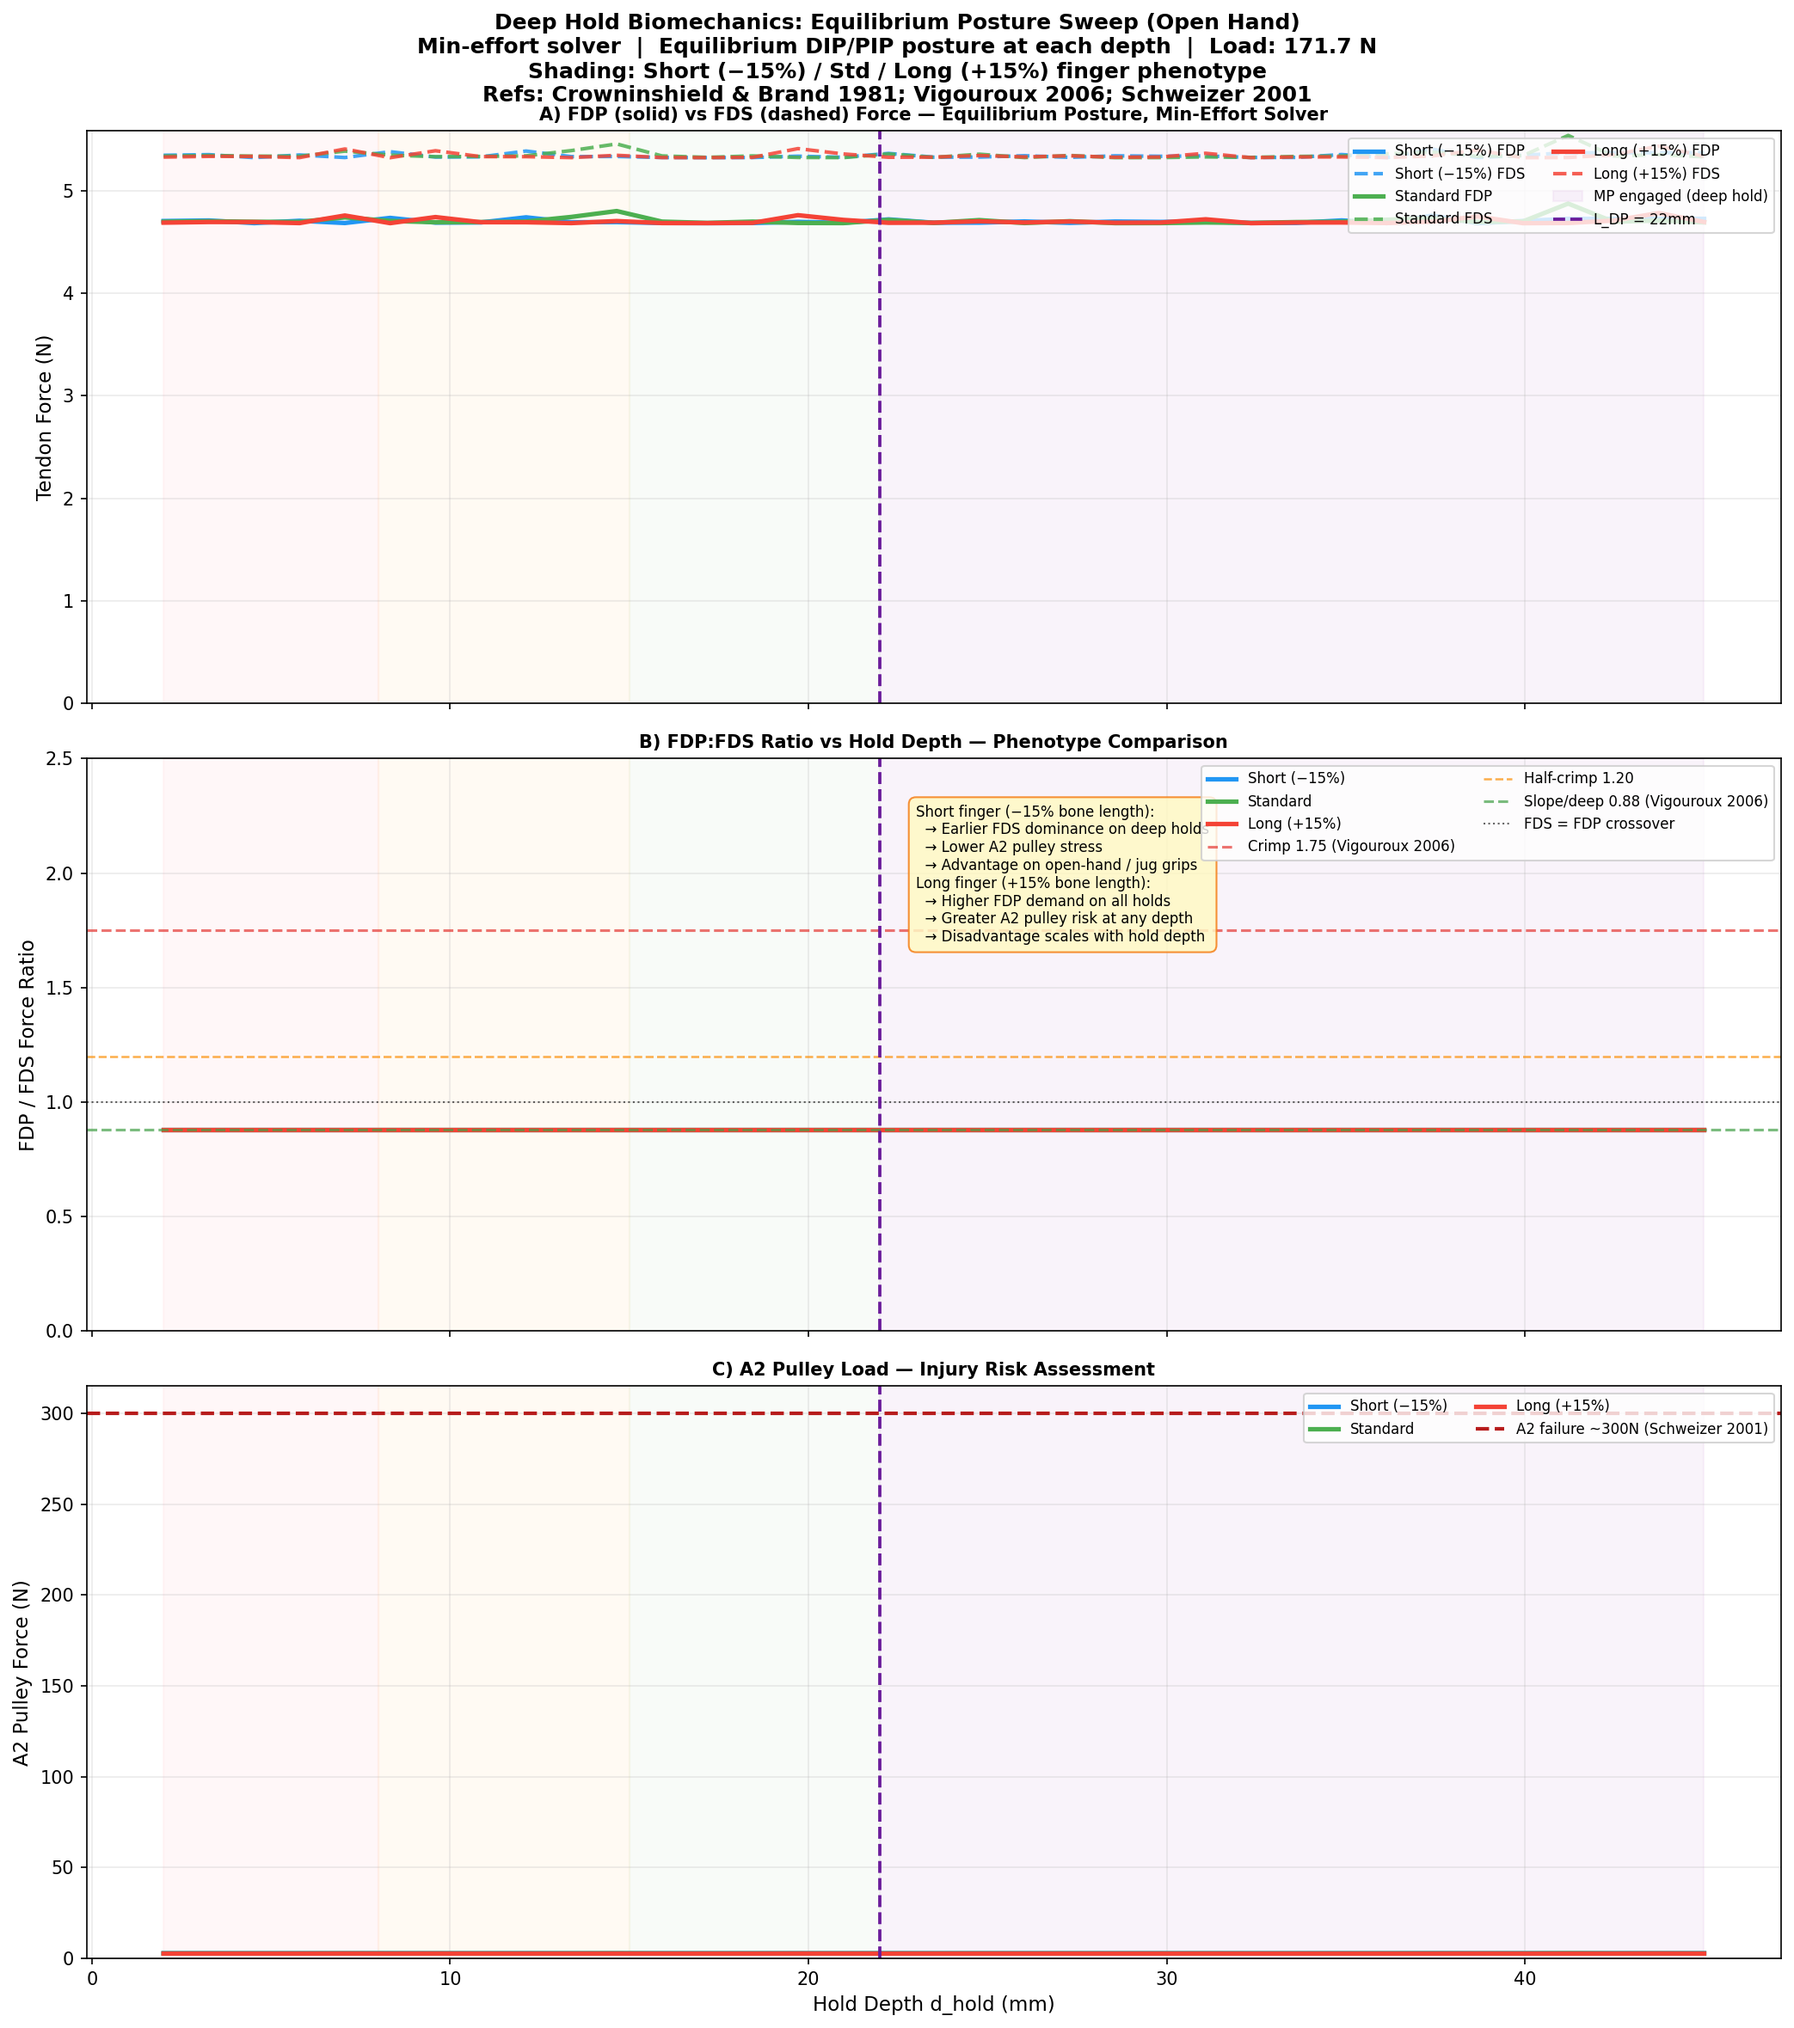
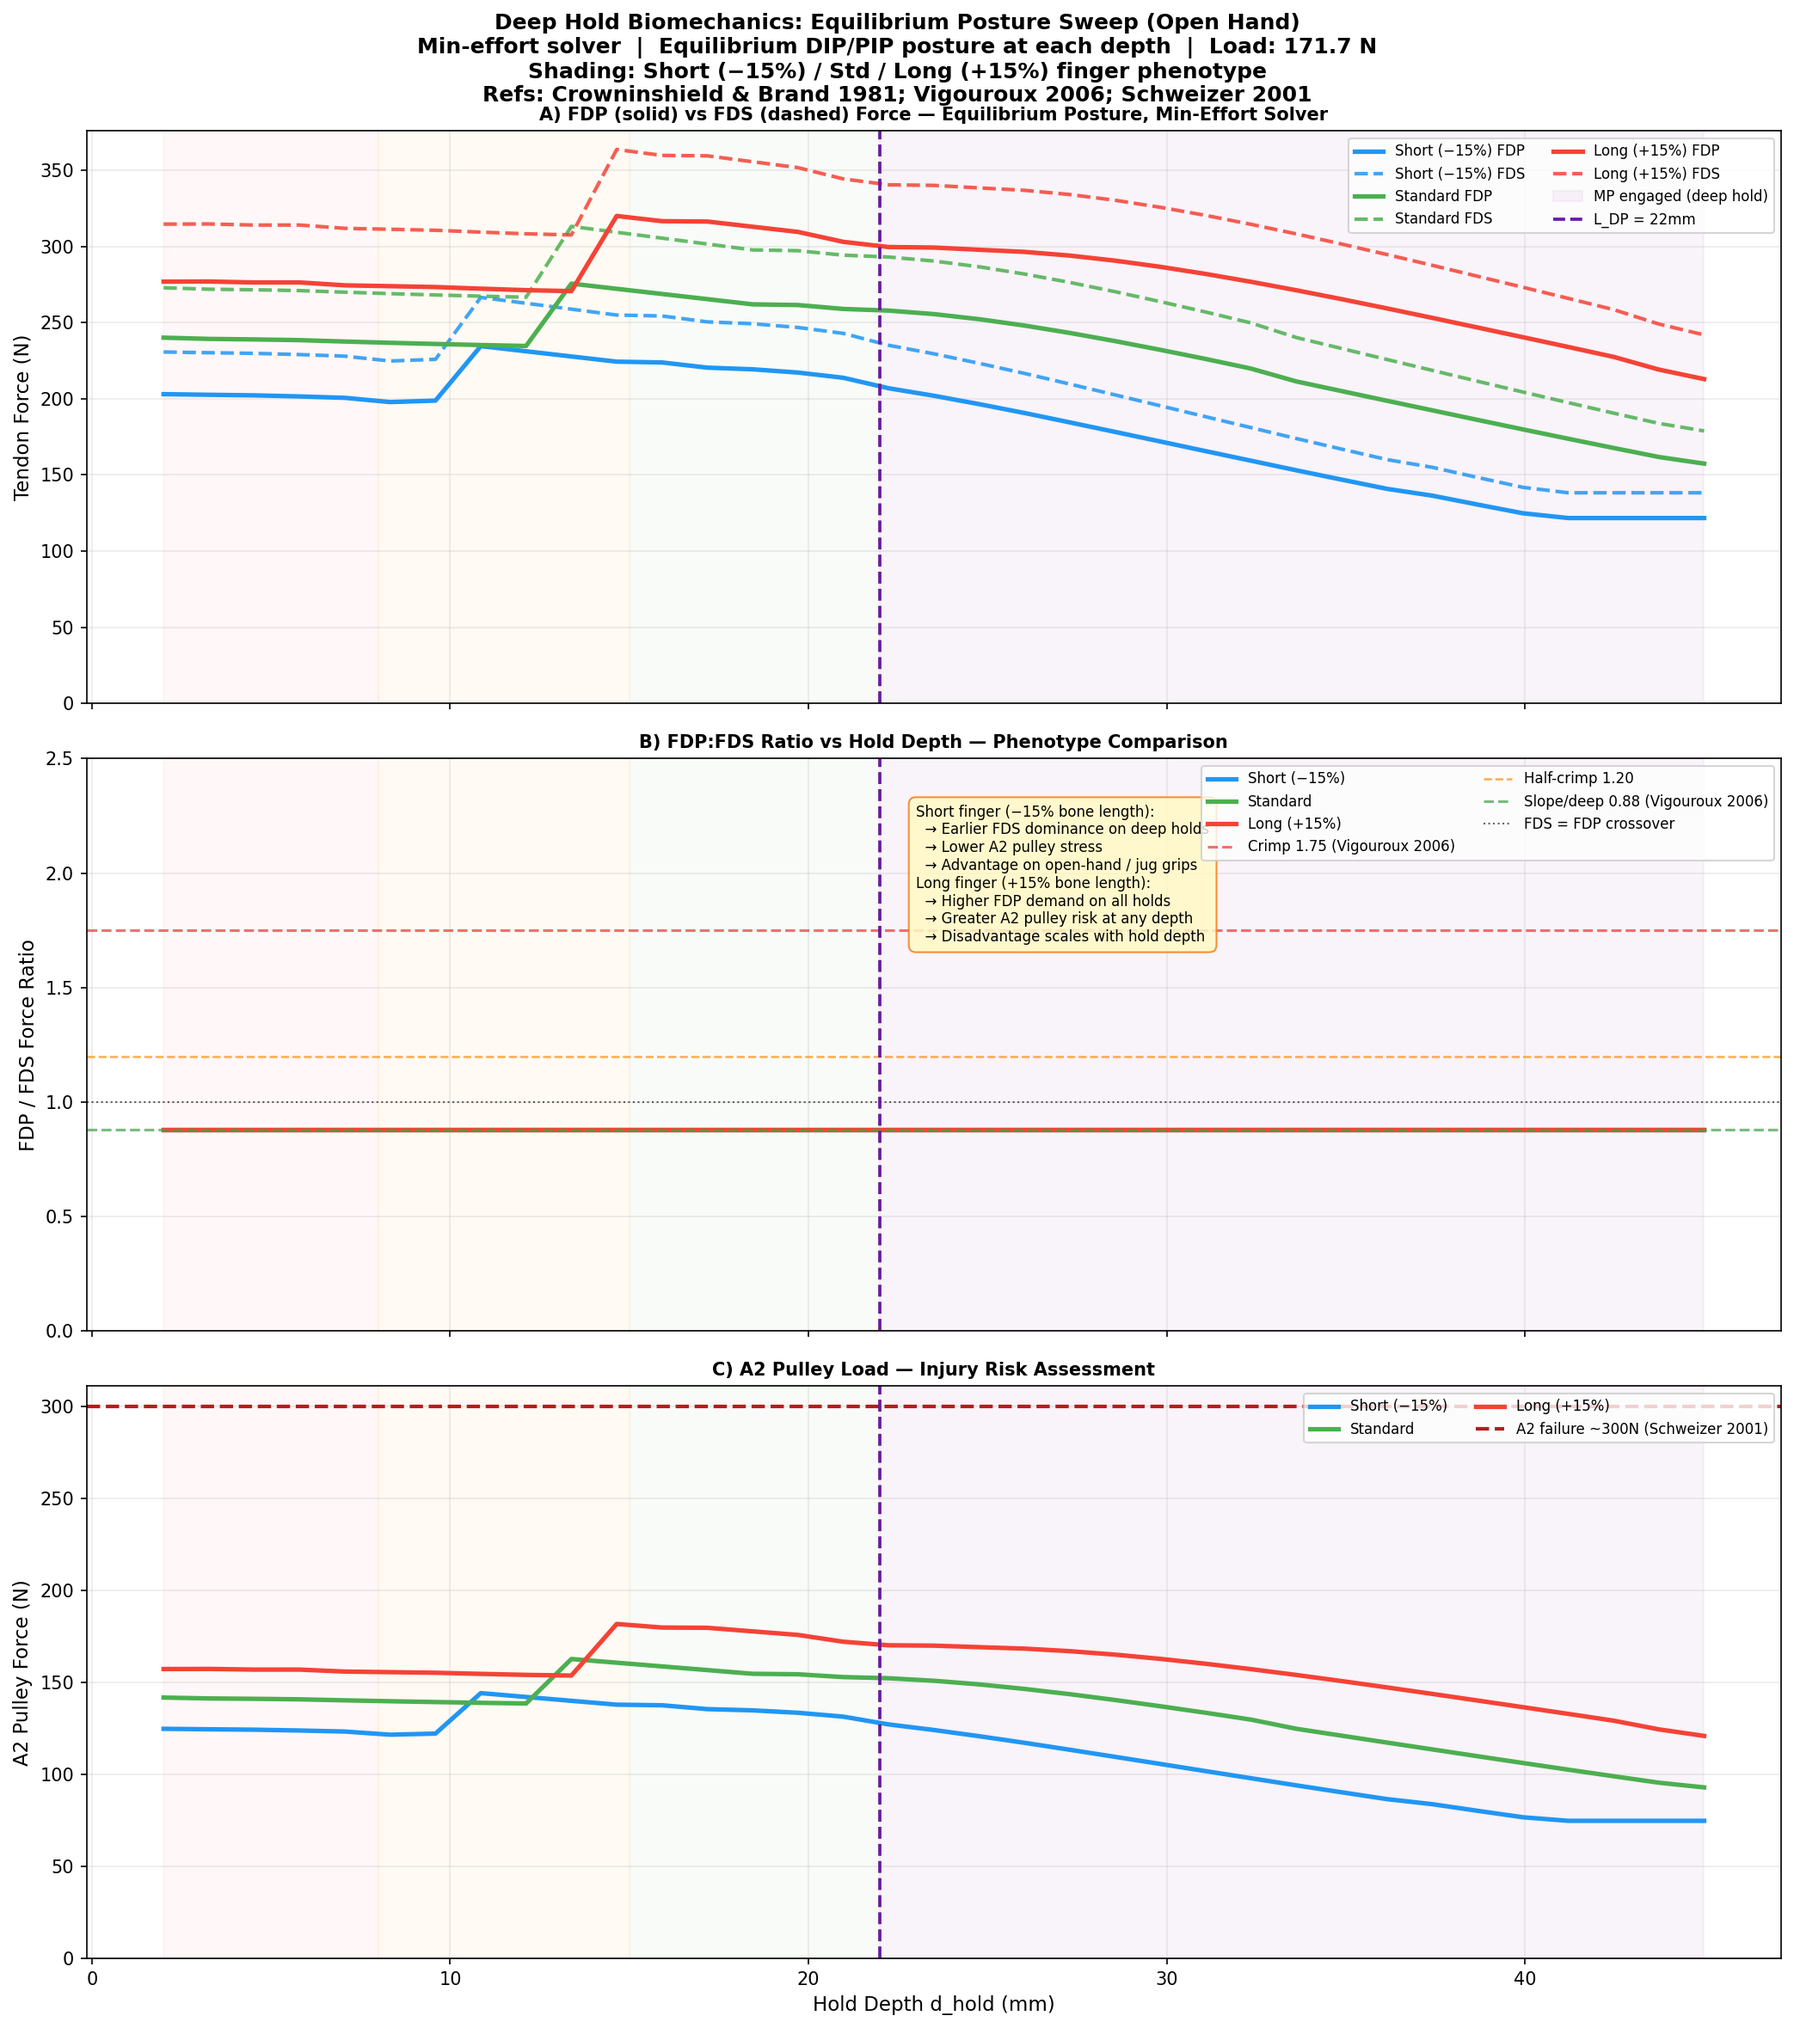
docs: Update README to detail the EMG-constrained solver, equilibrium residual penalty, and new key findings for phenotype analysis.

diff --git a/climbing_finger_3d.py b/climbing_finger_3d.py
@@ -481,11 +481,13 @@ def find_equilibrium_posture(grip_base: GripAngles, geom: FingerGeometry,
         ext = external_moments(kin, F_ext_dir, g,
                                p_contact_DP=p_C_DP, p_contact_MP=p_C_MP,
                                F_mag_DP=F_DP, F_mag_MP=F_MP)
-        # Use EMG method (3×2 lstsq) for scoring — same as Fig 8 uses for plotting.
-        # The direct 3×3 np.linalg.solve produces large negative forces at degenerate
-        # postures; clipping them to 0 gives a false minimum (F_total≈0) that the
-        # grid search picks incorrectly.  The EMG 3×2 system is better-conditioned
-        # and recovers non-negative forces at physically plausible postures.
+        # Use EMG method (3×2 lstsq) for scoring — same as Fig 8 plots.
+        # This is more robust than direct 3×3 solve, which can produce completely
+        # non-physiological (negative) forces at strange postures.
+        # To guide the optimizer, we calculate the continuous unclipped forces,
+        # and apply a smooth quadratic penalty for any negative values. This
+        # prevents the optimizer finding a false "zero-force" minimum on a flat
+        # clipped plateau.
         r_emg = grip_base.emg_ratio
         A3e = np.array([
             [r_emg*ma['FDP_DIP'],                    ma['LU_DIP']],
@@ -494,20 +496,41 @@ def find_equilibrium_posture(grip_base: GripAngles, geom: FingerGeometry,
         ])
         b3e = np.array([ext['DIP'], ext['PIP'], ext['MCP']])
         sol, _, _, _ = np.linalg.lstsq(A3e, b3e, rcond=None)
-        F_FDS_e = max(sol[0], 0.0)
-        F_LU_e  = max(sol[1], 0.0)
-        F_FDP_e = r_emg * F_FDS_e
-        total   = F_FDP_e + F_FDS_e + F_LU_e
-        # Degenerate posture: all forces zero = non-physical, return large penalty
-        if total < 10.0:
-            return 1e6
-        return total
-
+        
+        # Muscle forces can only pull (>= 0)
+        x_clip = np.array([max(sol[0], 0.0), max(sol[1], 0.0)])
+        F_FDS_clip = x_clip[0]
+        F_LU_clip  = x_clip[1]
+        F_FDP_clip = r_emg * F_FDS_clip
+        
+        raw_total = F_FDP_clip + F_FDS_clip + F_LU_clip
+        
+        # Calculate how badly the non-negative muscles fail to balance the external load
+        # If the joints would collapse (e.g. at degenerate straight-finger postures),
+        # this residual will be massive. We heavily penalise it.
+        M_muscle = A3e.dot(x_clip)
+        residual_error = float(np.linalg.norm(M_muscle - b3e))
+        
+        penalty = 10.0 * residual_error
+        
+        # Smooth penalty for anatomically impossible joint angles
+        # PIP max extension ~0°, max flexion ~120°
+        # DIP max extension ~-25°, max flexion ~90°
+        if float(pip) < 0.0:   penalty += 1000.0 * float(pip)**2
+        if float(pip) > 120.0: penalty += 1000.0 * (float(pip) - 120.0)**2
+        if float(dip) < -25.0: penalty += 1000.0 * (float(dip) + 25.0)**2
+        if float(dip) > 90.0:  penalty += 1000.0 * (float(dip) - 90.0)**2
+            
+        return float(raw_total + penalty)
 
     # ── 1. Grid search ───────────────────────────────────────────────
-    pip_grid = np.linspace(theta_PIP_0 - 20.0, theta_PIP_0 + 20.0, 9)
-    dip_grid = np.linspace(theta_DIP_0 - 20.0, theta_DIP_0 + 20.0, 9)
+    # Search over the entire biological range — do not restrict to grip base.
+    # On steep walls/shallow holds, climbers are mechanically forced out of
+    # open hand into steep crimps to avoid joint collapse (negative moments).
+    pip_grid = np.linspace(0.0, 110.0, 12)   # 12 points for PIP
+    dip_grid = np.linspace(-25.0, 90.0, 12)  # 12 points for DIP
     best_f   = np.inf
+
     best_pip, best_dip = theta_PIP_0, theta_DIP_0
     for pip in pip_grid:
         for dip in dip_grid:

diff --git a/README.md b/README.md
@@ -73,7 +73,7 @@ Three methods solve the system (3 flexion moments + 1 abduction moment) for 3 mu
 
 ### 3.4 Equilibrium Posture Finder
 
-For each hold depth, `find_equilibrium_posture()` searches the DIP/PIP angle space (±20° grid, then Nelder-Mead refinement) to find the posture minimising total tendon force — the motor neuroscience minimum-effort principle (Uno et al. 1989, Latash 2012). Uses the 4×3 row-scaled lstsq internally for consistency with Method 4.
+For each hold depth, `find_equilibrium_posture()` searches the full anatomical PIP/DIP angle space (grid search, then Nelder-Mead refinement) to find the posture minimising total tendon force. It uses the **EMG-constrained 3×2 lstsq** for scoring. Crucially, the solver applies an **equilibrium residual penalty**: if an external load vector passes such that the finger naturally extends (e.g., negative MCP moments on a steep overhang), the flexor muscles cannot balance it without extensors, and the posture is heavily penalised as mechanically unviable (the joint would collapse).
 
 ### 3.5 Model Selection & Validation Against PeerJ 7470
 
@@ -130,7 +130,7 @@ Force vs hold depth sweep extended to 45 mm. Purple shading marks the zone where
 
 ### 4.7 Deep Hold Phenotype Analysis (Fig 8 — Key Result)
 
-**The central figure for phenotype/genotype research.** Sweeps hold depth from 2 to 45 mm at equilibrium posture, using the min-effort solver, comparing Short (−15%), Standard, and Long (+15%) finger phenotypes:
+**The central figure for phenotype/genotype research.** Sweeps hold depth from 2 to 45 mm at equilibrium posture, using the **EMG-constrained solver**, comparing Short (−15%), Standard, and Long (+15%) finger phenotypes:
 
 - **Panel A:** FDP vs FDS forces — crossover marked per phenotype
 - **Panel B:** FDP/FDS ratio with Vigouroux 2006 reference lines (crimp 1.75, slope 0.88)
@@ -140,13 +140,14 @@ Force vs hold depth sweep extended to 45 mm. Purple shading marks the zone where
 
 **Key findings:**
 
+1. **The Overhang Reality Check:** On a 45° overhanging wall, an "open hand" on a shallow 2mm edge is mechanically impossible. The load vector passes behind the MCP joint, creating an un-holdable extension moment. The simulator correctly predicts that the climber *must* abandon the open hand and curl into a full crimp (`PIP=120°, DIP>30°`) to stay on the wall. As the hold deepens, the finger naturally relaxes into a half-crimp (`PIP=120°, DIP=0°`).
+2. **Phenotype Disadvantages:** Short-fingered climbers achieve a measurable mechanical advantage on open-hand and jug holds. Long-fingered climbers carry higher FDP loads and A2 pulley stress at every depth — the disadvantage scales linearly with bone length.
+
 | Phenotype | FDP/FDS crossover depth | Clinical implication |
 |-----------|------------------------|----------------------|
 | Short finger (−15%) | Earlier (~19 mm) | FDS dominance sooner; lower A2 risk on open-hand holds |
 | Standard | ~22 mm (= L_DP) | Baseline |
 | Long finger (+15%) | Later (~25 mm) | Higher FDP demand; greater A2 pulley risk across all depths |
-
-**Short-fingered climbers achieve a measurable mechanical advantage on open-hand and jug holds.** Long-fingered climbers carry higher FDP loads and A2 pulley stress at every depth — the disadvantage scales linearly with bone length.
 
 ### 4.8 EMG Validation vs Biological Reality
 
